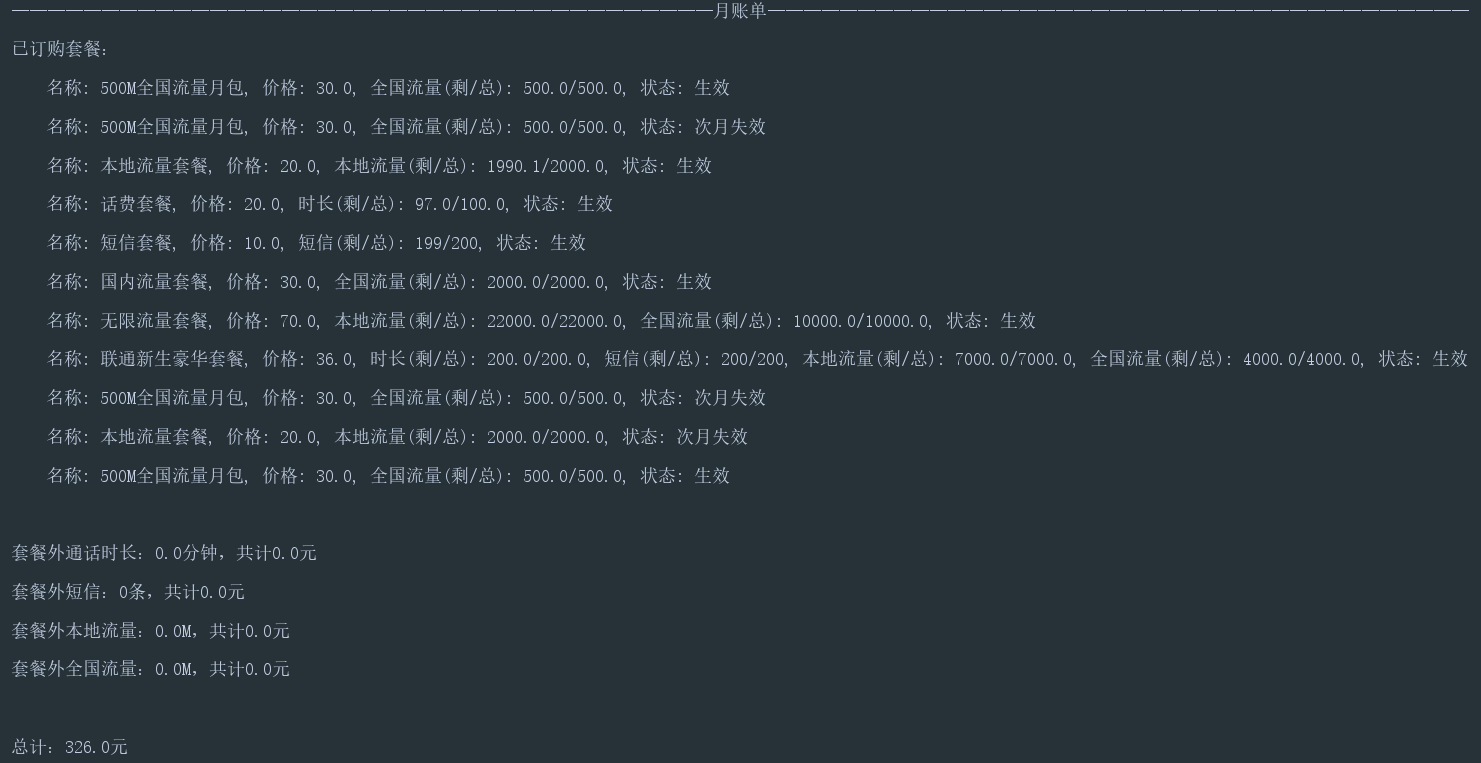
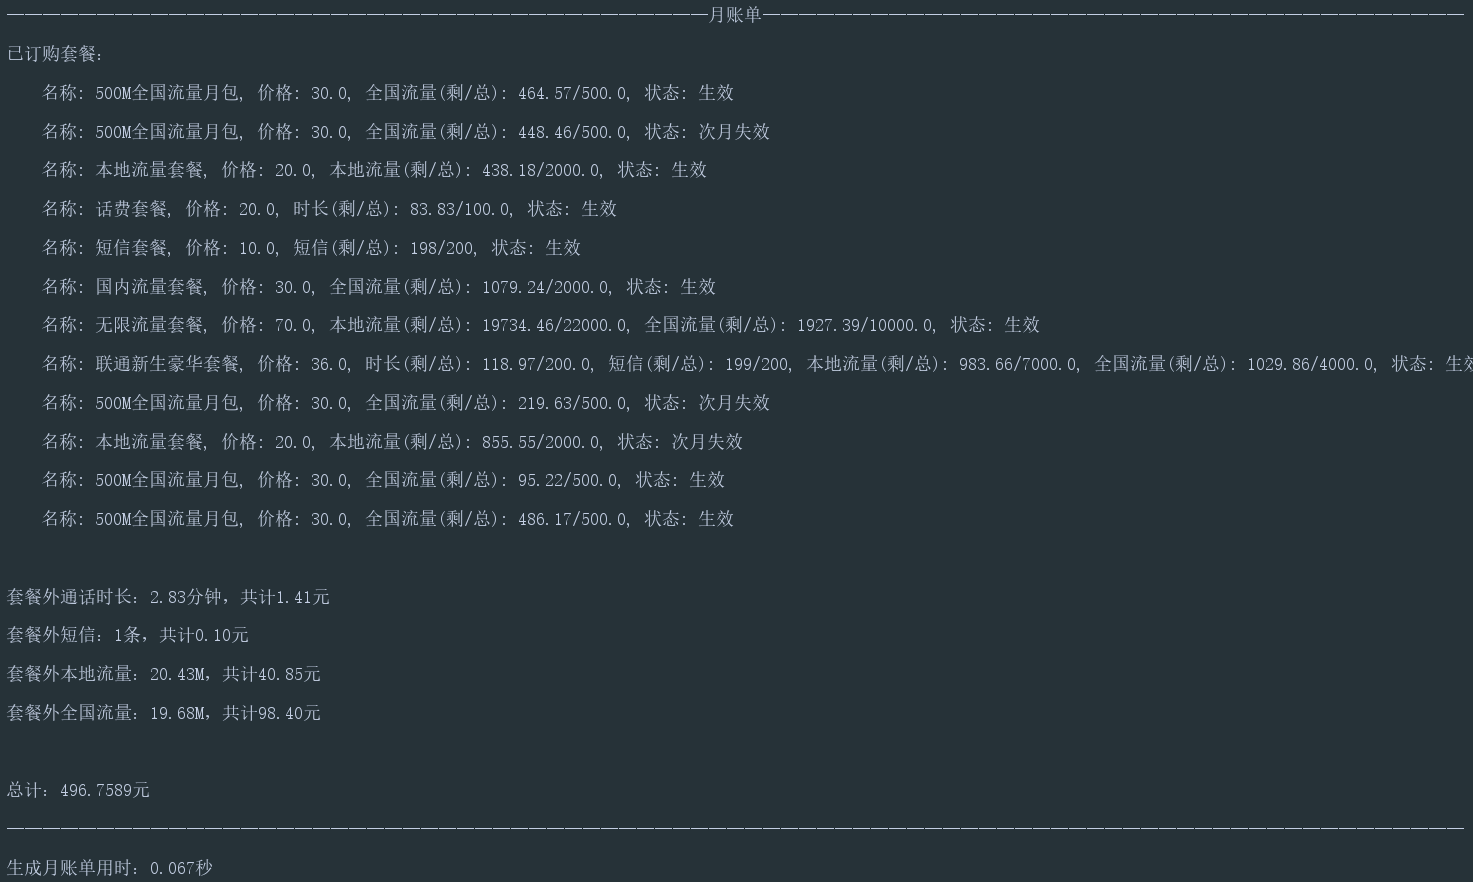
dev: add methods in DataGenerator, modify data to look real

diff --git a/src/main/java/xunner/Main.java b/src/main/java/xunner/Main.java
@@ -32,10 +32,15 @@ import java.util.Map;
  *
  * @author 巽
  **/
+@SuppressWarnings("SameParameterValue")
 public class Main {
 	private static SqlSessionFactory sqlSessionFactory;
 
 	public static void main(String[] args) {
+//		DataGenerator.generatePlans(sqlSessionFactory);
+//		DataGenerator.generateUsers(sqlSessionFactory);
+		DataGenerator.generateOrders(sqlSessionFactory);    // 11月数据在此生成
+		DataGenerator.generateExpenses(sqlSessionFactory, 1);    // 11月数据在此生成
 		long startTime;
 		double time;
 
@@ -44,52 +49,56 @@ public class Main {
 		subscribe(1, 1);
 		time = ((double) (System.currentTimeMillis() - startTime)) / 1000;
 		System.out.println("订购用时：" + time + "秒");
+		System.out.println();
 
 		// 2. 退订（立即生效）：unsubscribeByNow(订单id)
 		startTime = System.currentTimeMillis();
-		unsubscribeByNow(3);
+		unsubscribeByNow(5);
 		time = ((double) (System.currentTimeMillis() - startTime)) / 1000;
 		System.out.println("退订（立即生效）用时：" + time + "秒");
+		System.out.println();
 
 		// 3. 退订（次月生效）：unsubscribeNextMonth(订单id)
 		startTime = System.currentTimeMillis();
-		unsubscribeNextMonth(4);
+		unsubscribeNextMonth(6);
 		time = ((double) (System.currentTimeMillis() - startTime)) / 1000;
 		System.out.println("退订（次月生效）用时：" + time + "秒");
+		System.out.println();
 
 		// 4. 查询套餐订购记录：searchUserOrders(用户id，开始时间，结束时间)
 		startTime = System.currentTimeMillis();
 		searchUserOrders(1, LocalDate.of(2018, Month.JANUARY, 1), LocalDate.now());
 		time = ((double) (System.currentTimeMillis() - startTime)) / 1000;
 		System.out.println("查询套餐订购记录用时：" + time + "秒");
+		System.out.println();
 
 		// 5. 生成通话资费：generateCallExpense(用户id，通话时长/分钟)
 		startTime = System.currentTimeMillis();
 		generateCallExpense(1, 3.0);
 		time = ((double) (System.currentTimeMillis() - startTime)) / 1000;
 		System.out.println("生成通话资费用时：" + time + "秒");
+		System.out.println();
 
 		// 6. 生成短信资费：generateMessageExpense(用户id)
 		startTime = System.currentTimeMillis();
 		generateMessageExpense(1);
 		time = ((double) (System.currentTimeMillis() - startTime)) / 1000;
 		System.out.println("生成短信资费用时：" + time + "秒");
+		System.out.println();
 
 		// 7. 生成流量资费：generateDataExpense(用户id，流量大小/M，是否为本地流量)
 		startTime = System.currentTimeMillis();
 		generateDataExpense(1, 9.9, true);
 		time = ((double) (System.currentTimeMillis() - startTime)) / 1000;
 		System.out.println("生成流量资费用时：" + time + "秒");
+		System.out.println();
 
 		// 8. 生成当月账单：generateMonthlyBill(用户id)
 		startTime = System.currentTimeMillis();
 		generateMonthlyBill(1);
 		time = ((double) (System.currentTimeMillis() - startTime)) / 1000;
 		System.out.println("生成月账单用时：" + time + "秒");
-
-//		DataGenerator.generatePlans(sqlSessionFactory);
-//		DataGenerator.generateUsers(sqlSessionFactory);
-//		DataGenerator.generateOrders(sqlSessionFactory);
+		System.out.println();
 	}
 
 	/**
@@ -125,10 +134,10 @@ public class Main {
 
 				System.out.println("\t名称: " + plan.getName()
 						+ ", 价格: " + plan.getPrice()
-						+ (plan.getMinutes()==0 ? "" : ", 时长(剩/总): " + minutesLeft + "/" + plan.getMinutes())
-						+ (plan.getMessage()==0 ? "" : ", 短信(剩/总): " + messagesLeft + "/" + plan.getMessage())
-						+ (plan.getLocalData()==0 ? "" : ", 本地流量(剩/总): " + localDataLeft + "/" + plan.getLocalData())
-						+ (plan.getNationalData()==0 ? "" : ", 全国流量(剩/总): " + nationalDataLeft + "/" + plan.getNationalData())
+						+ (plan.getMinutes() == 0 ? "" : ", 时长(剩/总): " + String.format("%.2f", minutesLeft) + "/" + plan.getMinutes())
+						+ (plan.getMessage() == 0 ? "" : ", 短信(剩/总): " + messagesLeft + "/" + plan.getMessage())
+						+ (plan.getLocalData() == 0 ? "" : ", 本地流量(剩/总): " + String.format("%.2f", localDataLeft) + "/" + plan.getLocalData())
+						+ (plan.getNationalData() == 0 ? "" : ", 全国流量(剩/总): " + String.format("%.2f", nationalDataLeft) + "/" + plan.getNationalData())
 						+ ", 状态: " + state.getValue());
 			}
 			System.out.println();
@@ -141,10 +150,12 @@ public class Main {
 			double nationalData = dataExpenseMapper.sumDataWithoutOrder(userId, false, firstTimeOfMonth, lastTimeOfMonth);
 
 			// 套餐外通话0.5元/分钟，短信0.1元/条，本地流量2元/M，全国流量5元/M
-			System.out.println("套餐外通话时长：" + minutes + "分钟，共计" + (0.5 * minutes) + "元");
-			System.out.println("套餐外短信：" + message + "条，共计" + (0.1 * message) + "元");
-			System.out.println("套餐外本地流量：" + localData + "M，共计" + (2 * localData) + "元");
-			System.out.println("套餐外全国流量：" + nationalData + "M，共计" + (5 * nationalData) + "元");
+			sum += 0.5 * minutes + 0.1 * message + 2 * localData + 5 * nationalData;
+
+			System.out.println("套餐外通话时长：" + String.format("%.2f", minutes) + "分钟，共计" + String.format("%.2f", 0.5 * minutes) + "元");
+			System.out.println("套餐外短信：" + message + "条，共计" + String.format("%.2f", 0.1 * message) + "元");
+			System.out.println("套餐外本地流量：" + String.format("%.2f", localData) + "M，共计" + String.format("%.2f", 2 * localData) + "元");
+			System.out.println("套餐外全国流量：" + String.format("%.2f", nationalData) + "M，共计" + String.format("%.2f", 5 * nationalData) + "元");
 			System.out.println();
 			System.out.println("总计：" + sum + "元");
 			System.out.println("—————————————————————————————————————————————————————————————————————————————————");
@@ -208,8 +219,15 @@ public class Main {
 			}
 			if (left != 0) {
 				// 本地2元/M，全国5元/M
-				DataExpense dataExpense = new DataExpense(userId, null, LocalDateTime.now(), left, isLocal, (isLocal ? 2 : 5) * left);
+				double cost = (isLocal ? 2 : 5) * left;
+				DataExpense dataExpense = new DataExpense(userId, null, LocalDateTime.now(), left, isLocal, cost);
 				dataExpenseMapper.add(dataExpense);
+
+				// 扣钱
+				UserMapper userMapper = session.getMapper(UserMapper.class);
+				User user = userMapper.getById(userId);
+				user.setBalance(user.getBalance() - cost);
+				userMapper.update(user);
 
 				System.out.println("生成一笔流量资费：" + dataExpense);
 			}
@@ -251,6 +269,12 @@ public class Main {
 				// 0.1元/条
 				MessageExpense messageExpense = new MessageExpense(userId, null, LocalDateTime.now(), 0.1);
 				messageExpenseMapper.add(messageExpense);
+
+				// 扣钱
+				UserMapper userMapper = session.getMapper(UserMapper.class);
+				User user = userMapper.getById(userId);
+				user.setBalance(user.getBalance() - 0.1);
+				userMapper.update(user);
 
 				System.out.println("生成一笔短信资费：" + messageExpense);
 			}
@@ -294,8 +318,15 @@ public class Main {
 			}
 			if (left != 0) {
 				// 0.5元/分钟
-				CallExpense callExpense = new CallExpense(userId, null, LocalDateTime.now(), left, 0.5 * left);
+				double cost = 0.5 * left;
+				CallExpense callExpense = new CallExpense(userId, null, LocalDateTime.now(), left, cost);
 				callExpenseMapper.add(callExpense);
+
+				// 扣钱
+				UserMapper userMapper = session.getMapper(UserMapper.class);
+				User user = userMapper.getById(userId);
+				user.setBalance(user.getBalance() - cost);
+				userMapper.update(user);
 
 				System.out.println("生成一笔通话资费：" + callExpense);
 

diff --git a/src/main/java/xunner/DataGenerator.java b/src/main/java/xunner/DataGenerator.java
@@ -7,7 +7,12 @@ import xunner.enums.OrderState;
 import xunner.mapper.*;
 
 import java.time.LocalDate;
+import java.time.LocalDateTime;
+import java.time.LocalTime;
 import java.time.Month;
+import java.util.List;
+import java.util.Map;
+import java.util.Random;
 
 /**
  * 数据生成
@@ -78,5 +83,62 @@ public class DataGenerator {
 
 			session.commit();
 		}
+	}
+
+	public static void generateExpenses(SqlSessionFactory sqlSessionFactory, int userId) {
+		try (SqlSession session = sqlSessionFactory.openSession()) {
+			OrderMapper orderMapper = session.getMapper(OrderMapper.class);
+			CallExpenseMapper callExpenseMapper = session.getMapper(CallExpenseMapper.class);
+			DataExpenseMapper dataExpenseMapper = session.getMapper(DataExpenseMapper.class);
+			MessageExpenseMapper messageExpenseMapper = session.getMapper(MessageExpenseMapper.class);
+
+			LocalDate today = LocalDate.now();
+			LocalDate firstDayOfMonth = LocalDate.of(today.getYear(), today.getMonth(), 1);
+			LocalDate lastDayOfMonth = LocalDate.of(today.getYear(), today.getMonth(), today.getDayOfMonth());
+			LocalDateTime now = LocalDateTime.now();
+			List<Map<String, Object>> results = orderMapper.getValidOrdersIdAndTotal(userId, firstDayOfMonth, lastDayOfMonth);
+			Random rand = new Random();
+			assert !results.isEmpty();
+			for (Map result : results) {
+				int orderId = (int) result.get("orderId");
+				int messagesLeft = (int) result.get("message") - messageExpenseMapper.countMessagesInOrder(orderId);
+				double minutesLeft = (double) result.get("minutes") - callExpenseMapper.sumMinutesInOrder(orderId);
+				double localDataLeft = (double) result.get("localData") - dataExpenseMapper.sumDataInOrder(orderId, true);
+				double nationalDataLeft = (double) result.get("nationalData") - dataExpenseMapper.sumDataInOrder(orderId, false);
+//				System.out.println(messagesLeft + ", " + minutesLeft + ", " + localDataLeft + ", " + nationalDataLeft);
+				if (messagesLeft > 0) {
+//					System.out.println(messagesLeft);
+					messageExpenseMapper.add(new MessageExpense(userId, orderId, now, 0));
+				}
+				if (minutesLeft > 0) {
+					double minutes = rand.nextDouble() * minutesLeft;
+//					System.out.println(minutesLeft + ", rand minutes:" + minutes);
+					callExpenseMapper.add(new CallExpense(userId, orderId, now, minutes, 0));
+				}
+				if (localDataLeft > 0) {
+					double localData = rand.nextDouble() * localDataLeft;
+//					System.out.println(localDataLeft + ", rand localData:" + localData);
+					dataExpenseMapper.add(new DataExpense(userId, orderId, now, localData, true, 0));
+				}
+				if (nationalDataLeft > 0) {
+					double nationalData = rand.nextDouble() * nationalDataLeft;
+//					System.out.println(nationalDataLeft + ", rand nationalData:" + nationalData);
+					dataExpenseMapper.add(new DataExpense(userId, orderId, now, nationalData, false, 0));
+				}
+			}
+
+			messageExpenseMapper.add(new MessageExpense(userId, null, now, 0.1));
+			callExpenseMapper.add(new CallExpense(userId, null, now, rand.nextDouble() * 10, 0));
+			double localData = rand.nextDouble() * 30;
+			dataExpenseMapper.add(new DataExpense(userId, null, now, localData, true, 2 * localData));
+			double nationalData = rand.nextDouble() * 20;
+			dataExpenseMapper.add(new DataExpense(userId, null, now, nationalData, false, 5 * nationalData));
+
+			session.commit();
+		}
+	}
+
+	public static void generateDataOfNovember(SqlSessionFactory sqlSessionFactory) {
+
 	}
 }

diff --git a/README.md b/README.md
@@ -38,54 +38,54 @@
 
 ## 数据库ER图
 
-![ER Model](/img/ER.png)
+![ER Model](img/ER.png)
 
 ## 操作设计
 
 #### 1. 订购
 
 - 设计：
-- 运行截图：![订购](S:\JetBrains\Programs\DatabaseHomework\img\订购.png)
+- 运行截图：![订购](img/订购.png)
 - 时间：0.016s
 
 #### 2. 退订（立即生效）
 
 - 设计：
-- 运行截图：![立即退订](S:\JetBrains\Programs\DatabaseHomework\img\立即退订.png)
+- 运行截图：![立即退订](img/立即退订.png)
 - 时间：0.01s
 
 #### 3. 退订（次月生效）
 
 - 设计：
-- 运行截图：![次月退订](S:\JetBrains\Programs\DatabaseHomework\img\次月退订.png)
+- 运行截图：![次月退订](img/次月退订.png)
 - 时间：0.005s
 
 #### 4. 查询套餐订购记录
 
 - 设计：
-- 运行截图：![查询套餐订购记录](S:\JetBrains\Programs\DatabaseHomework\img\查询套餐订购记录.png)
+- 运行截图：![查询套餐订购记录](img/查询套餐订购记录.png)
 - 时间：0.013s
 
 #### 5. 生成通话资费
 
 - 设计：
-- 运行截图：![生成通话资费](S:\JetBrains\Programs\DatabaseHomework\img\生成通话资费.png)
+- 运行截图：![生成通话资费](img/生成通话资费.png)
 - 时间：0.021s
 
 #### 6. 生成短信资费
 
 - 设计：
-- 运行截图：![生成短信资费](S:\JetBrains\Programs\DatabaseHomework\img\生成短信资费.png)
+- 运行截图：![生成短信资费](img/生成短信资费.png)
 - 时间：0.019s
 
 #### 7. 生成流量资费
 
 - 设计：
-- 运行截图：![生成流量资费](S:\JetBrains\Programs\DatabaseHomework\img\生成流量资费.png)
+- 运行截图：![生成流量资费](img/生成流量资费.png)
 - 时间：0.015s
 
 #### 8. 生成当月账单
 
 - 设计：
-- 运行截图：![生成月账单](S:\JetBrains\Programs\DatabaseHomework\img\生成月账单.png)
+- 运行截图：![生成月账单](img/生成月账单.png)
 - 时间：0.043s
